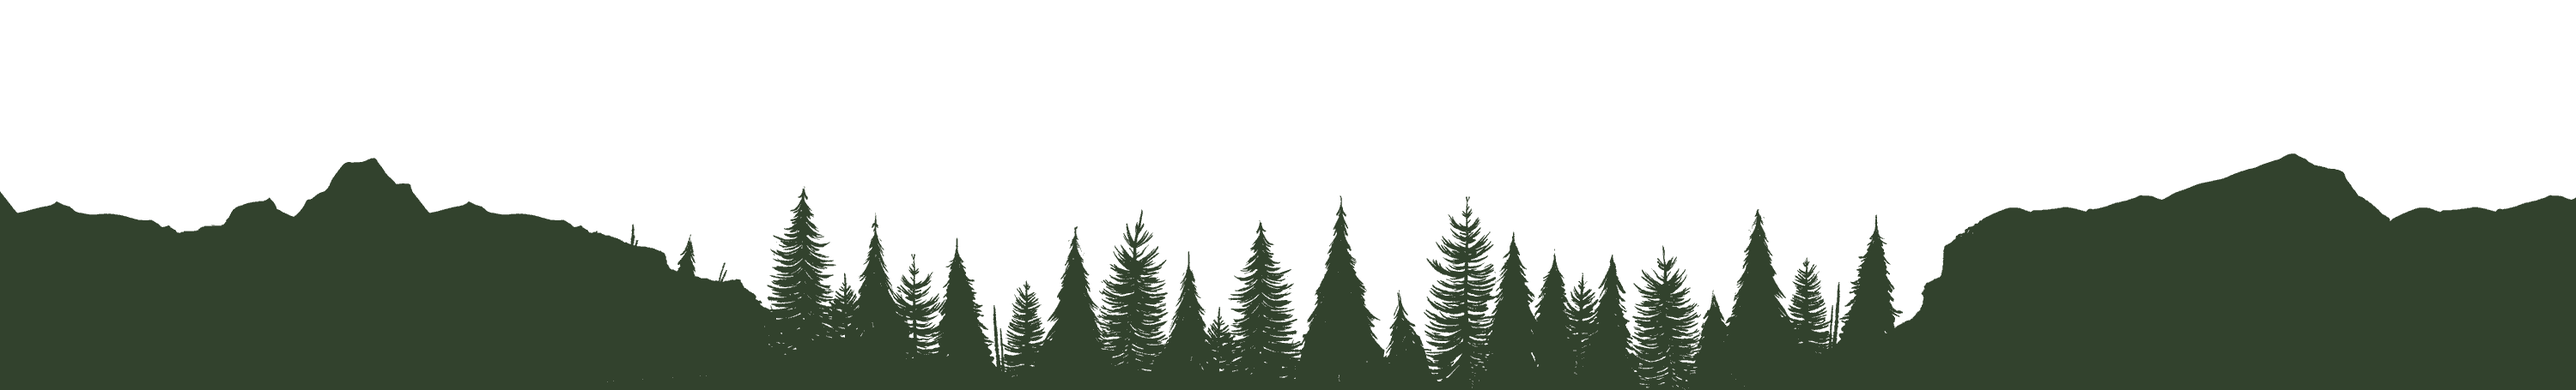
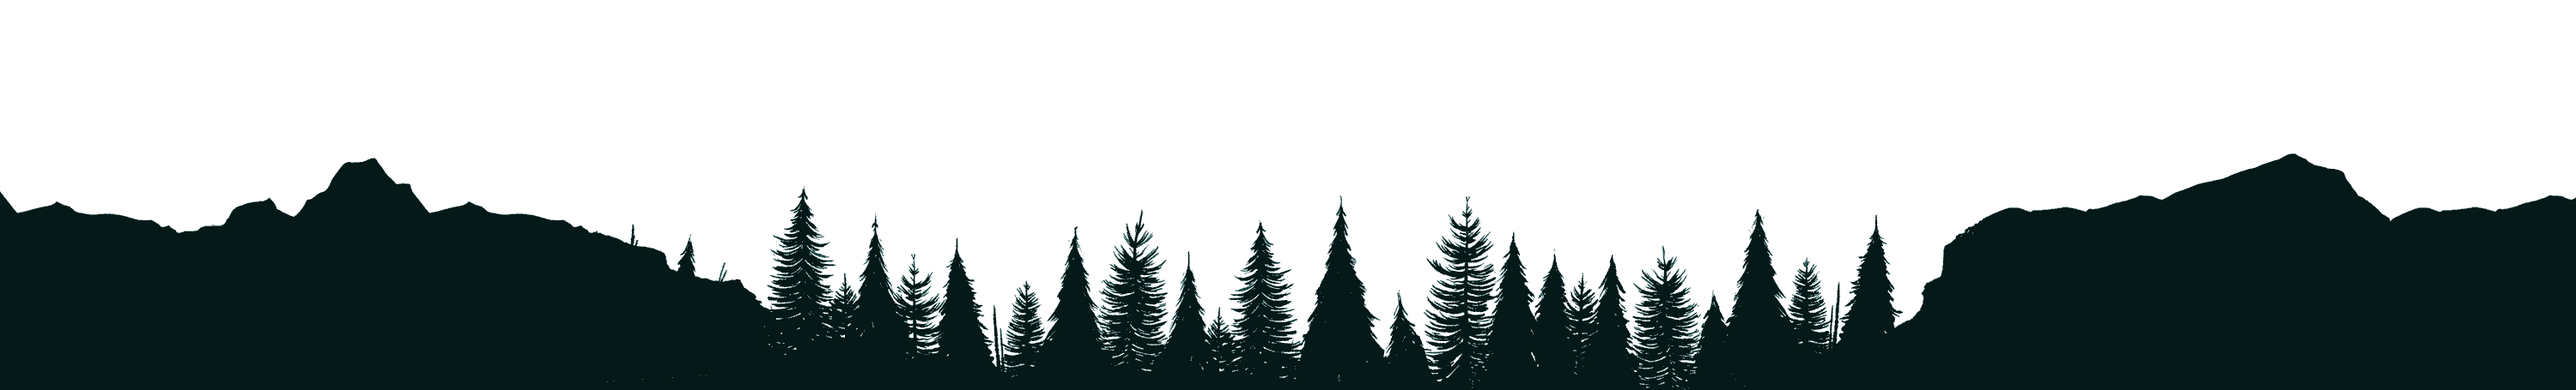
new background

diff --git a/webpage/index.html b/webpage/index.html
@@ -30,7 +30,7 @@
     <!-- 1.00 -->
     <div class="parallax_layer" id="layer_6"></div>
   </div>
-  <div class="maincontainer shade_0">
+  <div class="maincontainer">
     <div class="main">
       <p>
         Lorem ipsum dolor sit amet, consectetur adipiscing elit. Nulla hendrerit lectus sed dui fringilla,
@@ -41,10 +41,7 @@
         faucibus eget, congue tincidunt massa. Donec eu gravida arcu. Integer semper consectetur lorem at
         bibendum.
       </p>
-    </div>
-  </div>
-  <div class="maincontainer shade_1">
-    <div class="main">
+      <div class="separator"></div>
       <p>
         Lorem ipsum dolor sit amet, consectetur adipiscing elit. Nulla hendrerit lectus sed dui fringilla,
         id fringilla leo sodales. Nunc ut nibh feugiat, placerat lorem nec, aliquam metus. Phasellus odio
@@ -54,10 +51,7 @@
         faucibus eget, congue tincidunt massa. Donec eu gravida arcu. Integer semper consectetur lorem at
         bibendum.
       </p>
-    </div>
-  </div>
-  <div class="maincontainer shade_2">
-    <div class="main">
+      <div class="separator"></div>
       <p>
         Lorem ipsum dolor sit amet, consectetur adipiscing elit. Nulla hendrerit lectus sed dui fringilla,
         id fringilla leo sodales. Nunc ut nibh feugiat, placerat lorem nec, aliquam metus. Phasellus odio
@@ -67,10 +61,7 @@
         faucibus eget, congue tincidunt massa. Donec eu gravida arcu. Integer semper consectetur lorem at
         bibendum.
       </p>
-    </div>
-  </div>
-  <div class="maincontainer shade_3">
-    <div class="main">
+      <div class="separator"></div>
       <p>
         Lorem ipsum dolor sit amet, consectetur adipiscing elit. Nulla hendrerit lectus sed dui fringilla,
         id fringilla leo sodales. Nunc ut nibh feugiat, placerat lorem nec, aliquam metus. Phasellus odio

diff --git a/webpage/styles/main.scss b/webpage/styles/main.scss
@@ -1,11 +1,7 @@
 $background-parallax: #C1E8EC;
-$background: #32422D;
+$background: #041918;
 $font-color: #C1E8EC;
 $title-color: #008DD5;
-$shade-color-0: #32422D;
-$shade-color-1: #137547;
-$shade-color-2: #2A9134;
-$shade-color-3: #3FA34D;
 
 
 @import "font";
@@ -102,6 +98,7 @@ body  {
 // ====
 
 .maincontainer {
+  background-color: $background;
   position: relative;
   z-index: 98;
 }
@@ -114,23 +111,6 @@ body  {
   position: relative;
   color: $font-color;
   font-size: 1.3em;
-}
-
-.shade_0 {
-  background-color: $shade-color-0;
-}
-
-.shade_1 {
-  background-color: $shade-color-1;
-}
-
-.shade_2 {
-  background-color: $shade-color-2;
-}
-
-
-.shade_3 {
-  background-color: $shade-color-3;
 }
 
 .separator {

diff --git a/webpage/styles/main.css b/webpage/styles/main.css
@@ -74,6 +74,7 @@ body {
   color: #008DD5; }
 
 .maincontainer {
+  background-color: #041918;
   position: relative;
   z-index: 98; }
 
@@ -85,18 +86,6 @@ body {
   position: relative;
   color: #C1E8EC;
   font-size: 1.3em; }
-
-.shade_0 {
-  background-color: #32422D; }
-
-.shade_1 {
-  background-color: #137547; }
-
-.shade_2 {
-  background-color: #2A9134; }
-
-.shade_3 {
-  background-color: #3FA34D; }
 
 .separator {
   width: 90%;

diff --git a/README.md b/README.md
@@ -50,4 +50,7 @@ Questo è uno dei ruoli più divertente e difficile allo stesso tempo, ha bisogn
 - [verde](https://coolors.co/5bba6f-3fa34d-2a9134-137547-32422d)
 - [verde -> azzurro](https://coolors.co/59e873-008dd5-007b89-041918-7c8679)
 
+- [ColorHunt](http://www.colorhunt.co)
+- [WebGradients](https://webgradients.com/?ref=producthunt)
+
 [shared]: https://drive.google.com/drive/folders/0B0ROql6jecESSTZ2Qk51aC1Wd1k?usp=sharing
